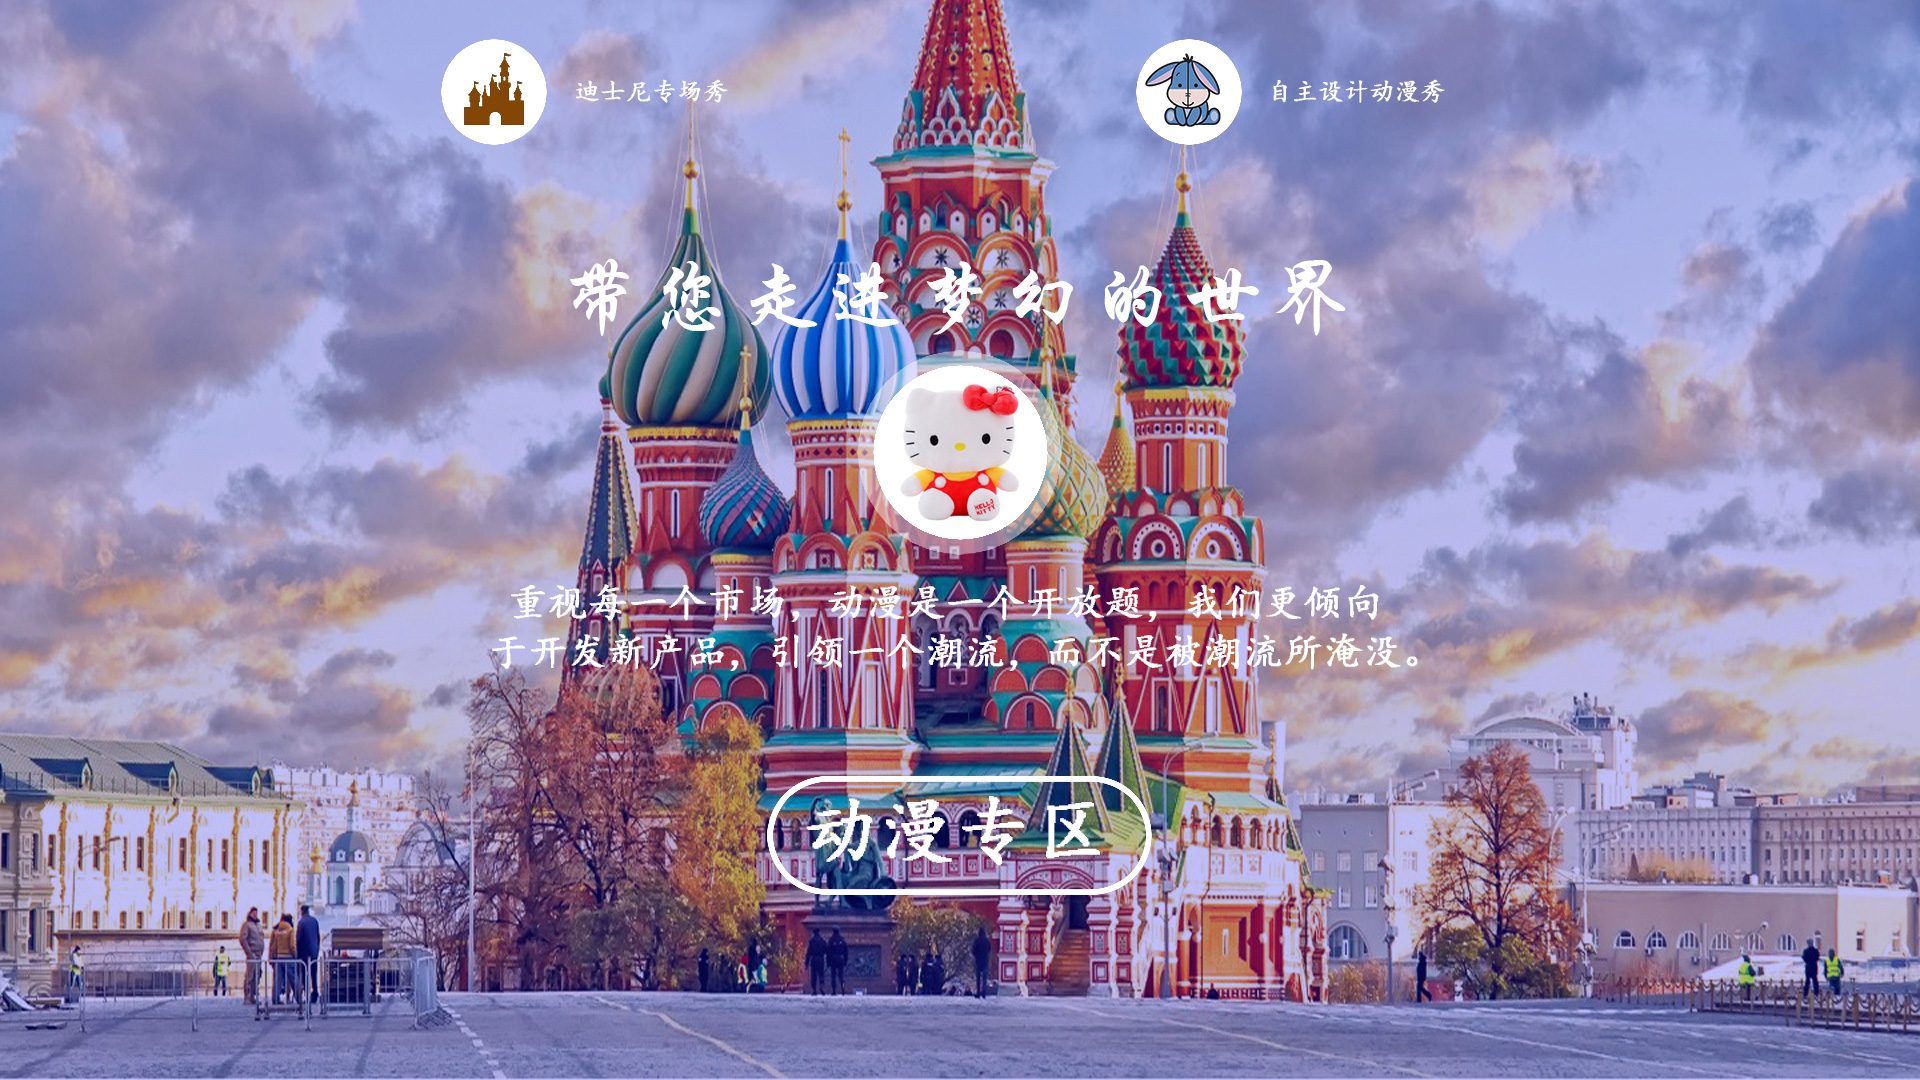
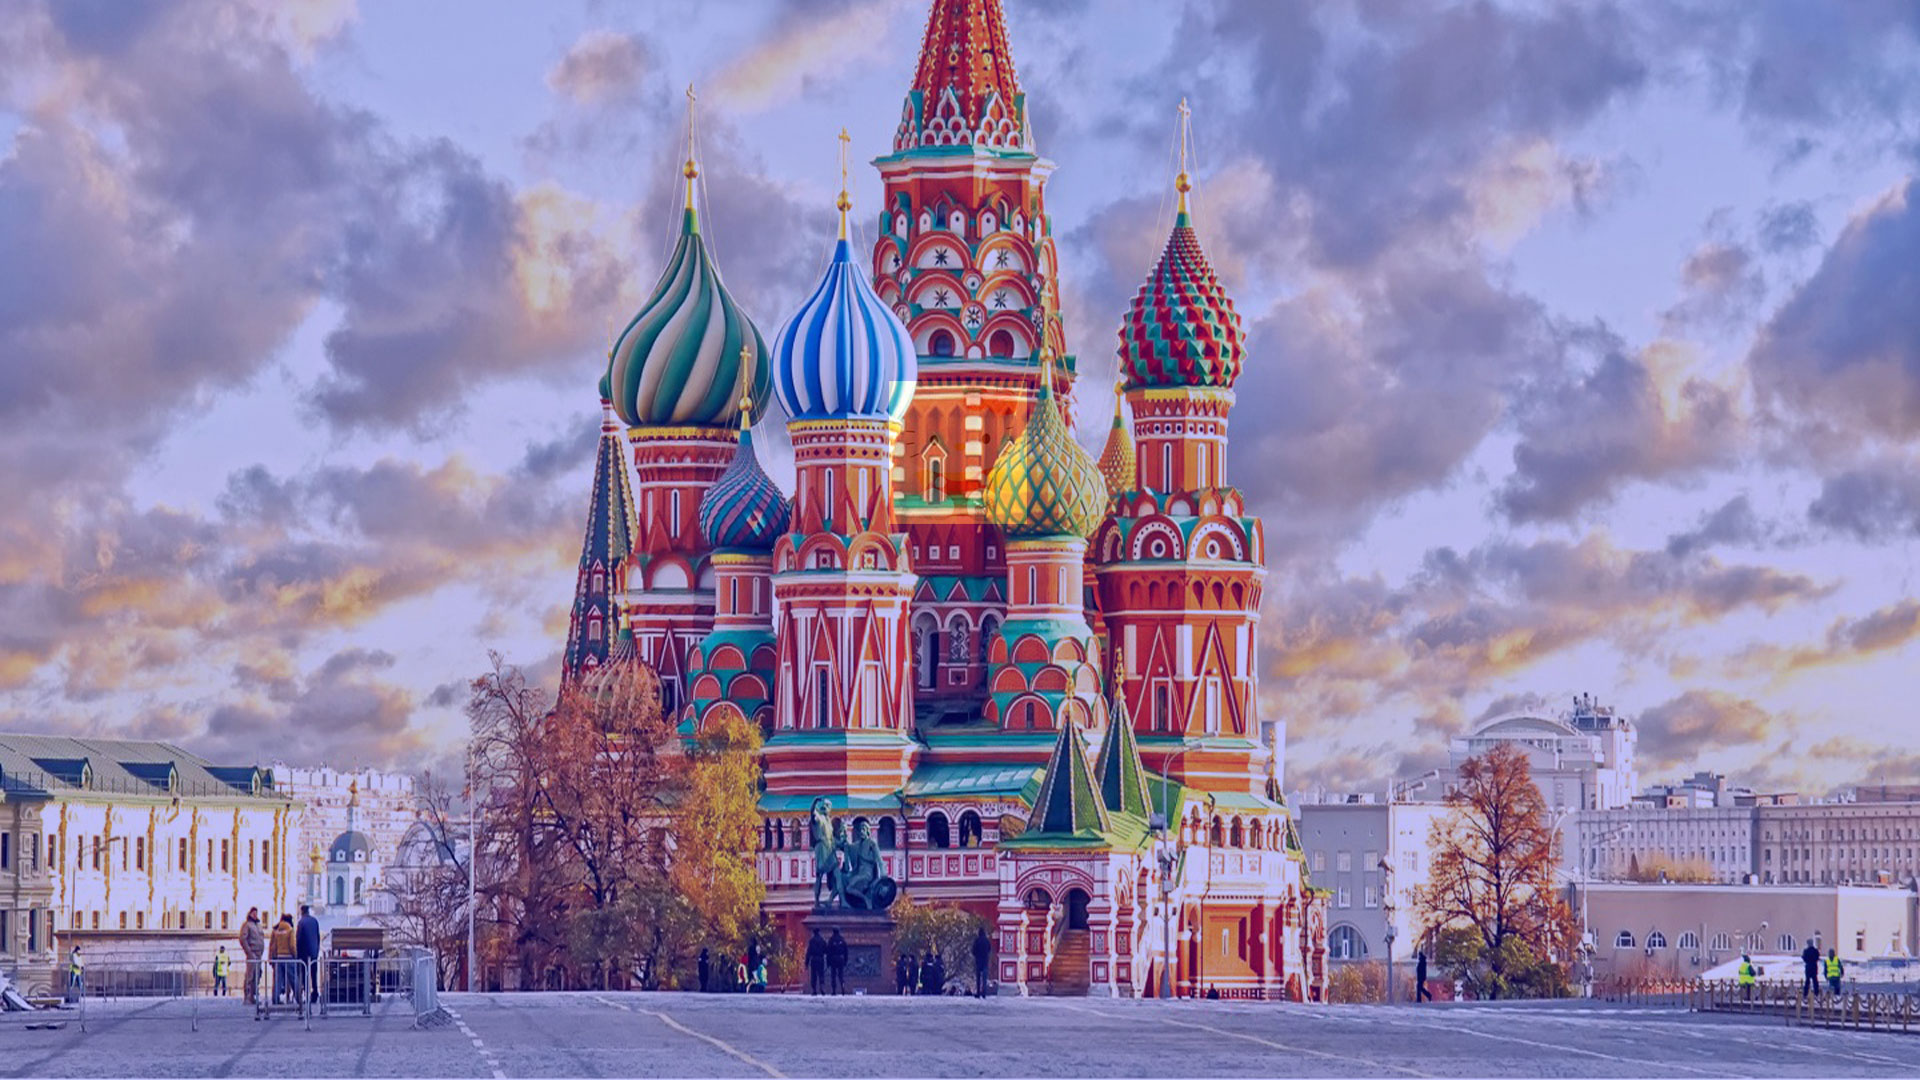
update home

diff --git a/src/pages/About/AboutPage.vue b/src/pages/About/AboutPage.vue
@@ -1,30 +1,26 @@
 <template>
-  <div class="doll-container">
-      <img class="carousel-img" src="../../assets/img/c-doll.jpg">
-        <div class="doll-content">
-            <div class="doll-header">
+  <div class="about-container">
+      <img class="carousel-img" src="../../assets/img/c-about.jpg">
+        <div class="about-content">
+            <div class="about-header">
                 <Row>
-                <Col span="8" class="head-info">
-                    <img class="head-logo" src="../../assets/img/doll-logo1.png">
-                    <span class="head-value">品种全</span>
+                <Col span="12" class="head-info">
+                    <img class="head-logo" src="../../assets/img/about-logo1.png">
+                    <span class="head-value">速度快捷</span>
                 </Col>
-                <Col span="8" class="head-info">
-                    <img class="head-logo" src="../../assets/img/doll-logo2.png">
-                    <span class="head-value">品质高</span>
-                </Col>
-                <Col span="8" class="head-info">
-                    <img class="head-logo" src="../../assets/img/doll-logo3.png">
-                    <span class="head-value">服务好</span>
+                <Col span="12" class="head-info">
+                    <img class="head-logo" src="../../assets/img/about-logo2.png">
+                    <span class="head-value">流程简单</span>
                 </Col>
                 </Row>
             </div>
-            <h1 class="doll-title">让玩具公仔点亮生活</h1>
-            <div class="doll-logo-bg">
-                <img class="doll-logo" src="../../assets/img/doll-logo.png">
+            <h1 class="about-title">您身边的定制专家</h1>
+            <div class="about-logo-bg">
+                <img class="about-logo" src="../../assets/img/about-logo.png">
             </div>  
-            <p class="doll-desc">赋予公仔的定义，见证爱情、亲情、友情，让公仔走进生活，给您更加人性化的选择，携手并进。</p> 
-            <div class="doll-bottom">
-                <Button class="doll-button" @click="toRouter(`/doll`)">公仔专区</Button>
+            <p class="about-desc">定制企业LOGO，公司吉祥物，婚庆、情人节礼物。根据图片定做您想要的毛绒玩具，批量生产，合理的价格，质量有保障，是您信赖的毛绒玩具定制服务商。</p> 
+            <div class="about-bottom">
+                <Button class="about-button" @click="toRouter(`/about`)">联系我们</Button>
             </div>
         </div>
   </div>
@@ -46,7 +42,7 @@ export default {
 };
 </script>
 <style lang="scss" scoped>
-.doll-container {
+.about-container {
     width: 100%;
     height: 100%;
     position: relative;
@@ -56,11 +52,11 @@ export default {
         max-width: 100%;
         max-height: 100%;
     }
-    .doll-content {
+    .about-content {
         position: absolute;
         position: absolute;
-        width: 64%;
-        left: 18%;
+        width: 60%;
+        left: 20%;
         top: 0;
         .head-info {
             padding: 0.5rem 0.25rem;
@@ -78,13 +74,13 @@ export default {
                 font-size: 0.2rem;
             }
         }
-        .doll-title {
+        .about-title {
             color: #fff;
             font-family: "STXingkai";
             font-size: 0.8rem;
             text-align: center;
         }
-        .doll-logo-bg {
+        .about-logo-bg {
             width: 1.8rem;
             height: 1.8rem;
             background: rgba(255, 255, 255, 0.5);
@@ -92,14 +88,14 @@ export default {
             margin: 0 auto;
             margin-top: 0.25rem;
             margin-bottom: 0.25rem;
-            .doll-logo {
+            .about-logo {
                 width: 1.5rem;
                 height: 1.5rem;
                 margin: 0.15rem 0.15rem;
             }
         }
-        .doll-desc {
-            width: 7.5rem;
+        .about-desc {
+            width: 8rem;
             text-align: center;
             margin: 0 auto;
             color: #fff;
@@ -108,11 +104,11 @@ export default {
             font-weight: bold;
             padding: 0.25rem 0.25rem;
         }
-        .doll-bottom {
+        .about-bottom {
             width: 2.8rem;
             height: 1rem;
             margin: 0 auto;
-            .doll-button {
+            .about-button {
             width: 100%;
             height: 100%;
             font-family: "STKaiti";

diff --git a/src/pages/Comic/ComicPage.vue b/src/pages/Comic/ComicPage.vue
@@ -1,30 +1,26 @@
 <template>
-  <div class="doll-container">
-      <img class="carousel-img" src="../../assets/img/c-doll.jpg">
-        <div class="doll-content">
-            <div class="doll-header">
+  <div class="comic-container">
+      <img class="carousel-img" src="../../assets/img/c-comic.jpg">
+        <div class="comic-content">
+            <div class="comic-header">
                 <Row>
-                <Col span="8" class="head-info">
-                    <img class="head-logo" src="../../assets/img/doll-logo1.png">
-                    <span class="head-value">品种全</span>
+                <Col span="12" class="head-info">
+                    <img class="head-logo" src="../../assets/img/comic-logo1.png">
+                    <span class="head-value">迪斯尼专场秀</span>
                 </Col>
-                <Col span="8" class="head-info">
-                    <img class="head-logo" src="../../assets/img/doll-logo2.png">
-                    <span class="head-value">品质高</span>
-                </Col>
-                <Col span="8" class="head-info">
-                    <img class="head-logo" src="../../assets/img/doll-logo3.png">
-                    <span class="head-value">服务好</span>
+                <Col span="12" class="head-info">
+                    <img class="head-logo" src="../../assets/img/comic-logo2.png">
+                    <span class="head-value">自主设计动漫秀</span>
                 </Col>
                 </Row>
             </div>
-            <h1 class="doll-title">让玩具公仔点亮生活</h1>
-            <div class="doll-logo-bg">
-                <img class="doll-logo" src="../../assets/img/doll-logo.png">
+            <h1 class="comic-title">带您走进梦幻的世界</h1>
+            <div class="comic-logo-bg">
+                <img class="comic-logo" src="../../assets/img/comic-logo.png">
             </div>  
-            <p class="doll-desc">赋予公仔的定义，见证爱情、亲情、友情，让公仔走进生活，给您更加人性化的选择，携手并进。</p> 
-            <div class="doll-bottom">
-                <Button class="doll-button" @click="toRouter(`/doll`)">公仔专区</Button>
+            <p class="comic-desc"> 重视每一个市场，动漫是一个开放题，我们更倾向于开发新产品，引领一个潮流，而不是被潮流所淹没。</p> 
+            <div class="comic-bottom">
+                <Button class="comic-button" @click="toRouter(`/comic`)">动漫专区</Button>
             </div>
         </div>
   </div>
@@ -46,7 +42,7 @@ export default {
 };
 </script>
 <style lang="scss" scoped>
-.doll-container {
+.comic-container {
     width: 100%;
     height: 100%;
     position: relative;
@@ -56,11 +52,11 @@ export default {
         max-width: 100%;
         max-height: 100%;
     }
-    .doll-content {
+    .comic-content {
         position: absolute;
         position: absolute;
-        width: 64%;
-        left: 18%;
+        width: 60%;
+        left: 20%;
         top: 0;
         .head-info {
             padding: 0.5rem 0.25rem;
@@ -78,13 +74,13 @@ export default {
                 font-size: 0.2rem;
             }
         }
-        .doll-title {
+        .comic-title {
             color: #fff;
             font-family: "STXingkai";
             font-size: 0.8rem;
             text-align: center;
         }
-        .doll-logo-bg {
+        .comic-logo-bg {
             width: 1.8rem;
             height: 1.8rem;
             background: rgba(255, 255, 255, 0.5);
@@ -92,14 +88,14 @@ export default {
             margin: 0 auto;
             margin-top: 0.25rem;
             margin-bottom: 0.25rem;
-            .doll-logo {
+            .comic-logo {
                 width: 1.5rem;
                 height: 1.5rem;
                 margin: 0.15rem 0.15rem;
             }
         }
-        .doll-desc {
-            width: 7.5rem;
+        .comic-desc {
+            width: 7.8rem;
             text-align: center;
             margin: 0 auto;
             color: #fff;
@@ -108,11 +104,11 @@ export default {
             font-weight: bold;
             padding: 0.25rem 0.25rem;
         }
-        .doll-bottom {
+        .comic-bottom {
             width: 2.8rem;
             height: 1rem;
             margin: 0 auto;
-            .doll-button {
+            .comic-button {
             width: 100%;
             height: 100%;
             font-family: "STKaiti";

diff --git a/src/pages/Home/Home.vue b/src/pages/Home/Home.vue
@@ -27,8 +27,10 @@
                 <doll-page></doll-page>
             </CarouselItem>
             <CarouselItem>
+                <comic-page></comic-page>
             </CarouselItem>
             <CarouselItem>
+                <about-page></about-page>
             </CarouselItem>
         </Carousel>
     </div>
@@ -40,10 +42,12 @@ import YearPage from '../Year/YearPage'
 import HousePage from '../House/HousePage'
 import WeddingPage from '../Wedding/WeddingPage'
 import DollPage from '../Doll/DollPage'
+import ComicPage from '../Comic/ComicPage'
+import AboutPage from '../About/AboutPage'
 export default {
   data() {
     return {
-      value: 5,
+      value: 0,
       settings: {
         autoplay: false,
         autoplaySpeed: 6000,
@@ -60,7 +64,9 @@ export default {
     'year-page': YearPage,
     'house-page': HousePage,
     'wedding-page': WeddingPage,
-    'doll-page': DollPage
+    'doll-page': DollPage,
+    'comic-page': ComicPage,
+    'about-page': AboutPage
   }
 };
 </script>
